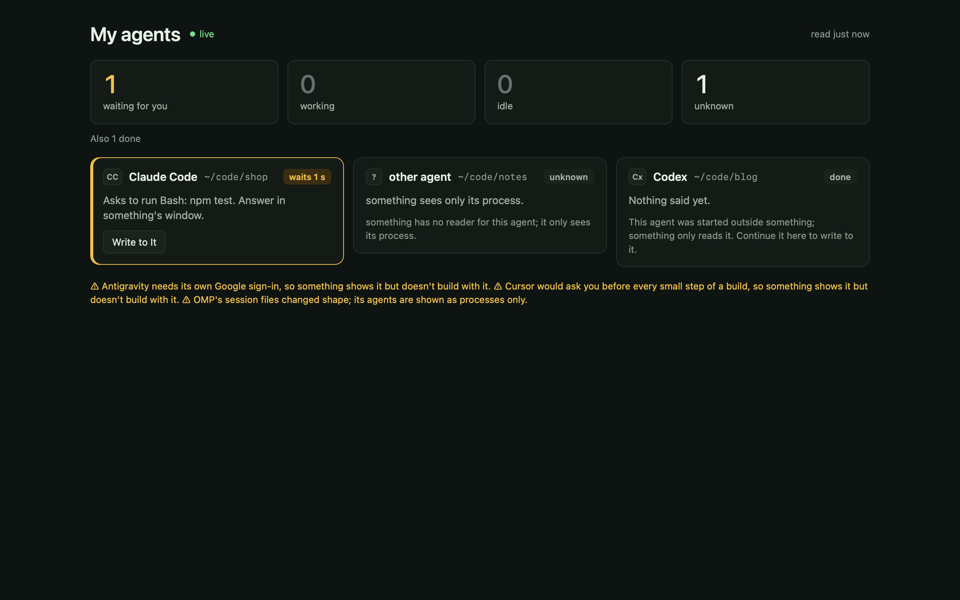
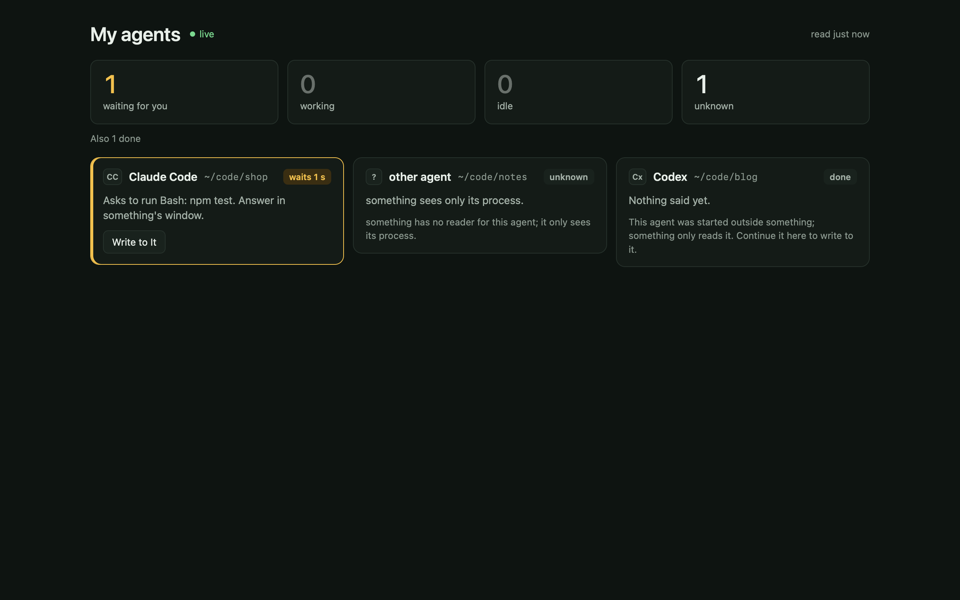
Picture fixes for R4
My agents is a dark control room by day and by night, as the mockup draws it; After This Turn
is filled; its helpers fold behind one line with a chevron; "/" in the footer is a keycap; the
mode chip fits its word; a kind's note shows only while one of its agents is here, quietly. A
tool step that names its tool is not prefixed with it. Project watch keeps its blueprint in both
appearances, and a milestone ticked keeps the day it was done ("done 15 Oct", "open").
Info's lock line says the memory needs no permission. The request panel says "Started by
<space>" instead of the agent's quoted name. The stage takes the mockup's thread for pacman,
portfolio launched by the space, and X4.3's atelier folder, milestones and agent.

Changed region(s): [[0.0938, 0.45, 0.9062, 0.51]]

diff --git a/share/templates/agents.html b/share/templates/agents.html
@@ -20,20 +20,14 @@
 </script>
 <style>
   [hidden] { display: none !important; }
-  /* A calm control room: deep green-black by night, pale sage by day; amber for what waits, green for what works.
-     --soft stays readable (4.5:1) on the cards; --edge only draws lines. */
+  /* A calm control room, deep green-black by day and by night alike, as a control room stays lit the same: amber for
+     what waits, green for what works. --soft stays readable (4.5:1) on the cards; --edge only draws lines. */
   :root {
-    color-scheme: light dark;
-    --room: #eef2ef; --card: #fafcfa; --sunk: #e6ece8; --edge: #d3ddd6; --ink: #142019; --soft: #56645b; --faint: #6b786f;
-    --work: #1f7a43; --work-bg: #dcefe2; --wait: #9a5b00; --wait-bg: #fbecc9; --amber: #f2c14e; --amber-ink: #241a00;
-    --fail: #b3261e; --you: #e1e9e4;
+    color-scheme: dark;
+    --room: #0e1411; --card: #141b17; --sunk: #19221d; --edge: #26312b; --ink: #e8efe9; --soft: #a3b0a7; --faint: #8b988f;
+    --work: #7bd88f; --work-bg: #1d3a26; --wait: #f2c14e; --wait-bg: #3a2e12; --amber: #f2c14e; --amber-ink: #241a00;
+    --fail: #ff7b72; --you: #1f2b25; --deep: #213a2b;
     font: 14px/1.45 -apple-system, system-ui, sans-serif;
-  }
-  @media (prefers-color-scheme: dark) {
-    :root {
-      --room: #0e1411; --card: #141b17; --sunk: #19221d; --edge: #26312b; --ink: #e8efe9; --soft: #a3b0a7; --faint: #8b988f;
-      --work: #7bd88f; --work-bg: #1d3a26; --wait: #f2c14e; --wait-bg: #3a2e12; --fail: #ff7b72; --you: #1f2b25;
-    }
   }
   * { box-sizing: border-box; }
   body { margin: 0; min-height: 100vh; background: var(--room); color: var(--ink); }
@@ -83,12 +77,13 @@
   .btn { border: 1px solid var(--edge); background: var(--sunk); border-radius: 7px; padding: 5px 11px; cursor: pointer; font-size: 13px; }
   .btn:hover { border-color: var(--faint); }
   .btn.go { background: var(--amber); border-color: var(--amber); color: var(--amber-ink); font-weight: 600; }
+  .btn.next { background: var(--deep); border-color: var(--deep); font-weight: 600; }
 
   /* The open card's chips: its model and effort, its mode, each as the agent reported it, for its next turn. */
   .chips { margin-left: auto; display: flex; gap: 6px; align-items: center; }
   .chip { display: inline-flex; align-items: center; gap: 2px; border: 1px solid var(--edge); border-radius: 7px; background: var(--sunk);
           font-size: 12.5px; padding: 0 4px; height: 26px; }
-  .chip select { appearance: none; border: 0; background: none; padding: 0 3px; cursor: pointer; font-size: 12.5px; }
+  .chip select { appearance: none; border: 0; background: none; padding: 0 3px; cursor: pointer; font-size: 12.5px; field-sizing: content; }
   .chip select + select { color: var(--soft); }
   .chip::after { content: "⌄"; color: var(--faint); padding: 0 3px 4px 0; }
   .chip.fixed::after { content: none; }
@@ -102,10 +97,15 @@
   .thread .it .tile { height: 18px; min-width: 18px; font-size: 9px; }
   .thread .step { color: var(--faint); font-size: 12.5px; padding-left: 8px; }
   .thread .step::before { content: "○"; margin-right: 8px; }
-  .helpers { display: flex; gap: 8px; align-items: center; border: 1px solid var(--edge); border-radius: 8px; padding: 8px 12px;
-             font-size: 12.5px; color: var(--soft); }
+  /* Its helpers: one line, a › to unfold each sub-agent and where it stands. */
+  .helpers { border: 1px solid var(--edge); border-radius: 8px; font-size: 12.5px; color: var(--soft); }
+  .helpers summary { display: flex; gap: 8px; align-items: center; padding: 8px 12px; cursor: pointer; list-style: none; }
+  .helpers summary::-webkit-details-marker { display: none; }
+  .helpers summary::before { content: "⌥"; color: var(--work); }
+  .helpers summary::after { content: "›"; margin-left: auto; color: var(--faint); font-size: 15px; transition: transform 140ms ease-out; }
+  .helpers[open] summary::after { transform: rotate(90deg); }
   .helpers b { color: var(--ink); font-weight: 600; }
-  .helpers::before { content: "⌥"; color: var(--work); }
+  .helpers ul { list-style: none; margin: 0; padding: 0 12px 8px 30px; display: flex; flex-direction: column; gap: 3px; }
   .held { margin: 0; color: var(--soft); font-size: 12.5px; }
 
   /* The reply: "/" opens its commands, the field, then Send Now and After This Turn. */
@@ -132,7 +132,7 @@
 
   .empty { grid-column: 1 / -1; border: 1px dashed var(--edge); border-radius: 12px; padding: 28px; text-align: center; color: var(--soft); }
   #problem { border: 1px solid var(--fail); color: var(--fail); border-radius: 8px; padding: 8px 12px; margin: 0; }
-  #notes { color: var(--wait); font-size: 12.5px; margin: 0; }
+  #notes { color: var(--faint); font-size: 12px; margin: 0; }
   @media (max-width: 700px) { main { padding: 18px; } .thread .you { max-width: 90%; } .keys .from { margin-left: 0; } }
   @media (prefers-reduced-motion: reduce) { .agent.fresh { animation: none; } }
 </style>
@@ -205,13 +205,13 @@
     node.innerHTML = `<div class="head"><span class="tile"></span><span class="name"></span><span class="folder mono"></span>
         <span class="pill"></span><span class="chips" hidden></span></div>
       <p class="line"></p><p class="fault" hidden></p>
-      <ol class="thread" hidden></ol><div class="helpers" hidden></div><p class="held" hidden></p>
+      <ol class="thread" hidden></ol><details class="helpers" hidden><summary></summary><ul></ul></details><p class="held" hidden></p>
       <div class="acts"><button type="button" class="btn write">Write to It</button></div>
       <div class="talk" hidden><p class="hint" hidden></p>
         <form class="reply"><ul class="cmds" role="listbox" hidden></ul>
           <button type="button" class="slash" aria-label="Its commands">/</button>
           <textarea rows="1" aria-label="Message" role="combobox" aria-autocomplete="list" aria-expanded="false"></textarea>
-          <button type="submit" class="btn go" value="now">Send Now</button><button type="submit" class="btn" value="next">After This Turn</button>
+          <button type="submit" class="btn go" value="now">Send Now</button><button type="submit" class="btn next" value="next">After This Turn</button>
         </form>
         <div class="keys"><span class="now"><kbd>↩</kbd>now, it reads it at its next step</span><span class="after"><kbd>⌥↩</kbd>after this turn</span>
           <span class="own"></span><span class="from">through something · this page may write to your agents</span></div>
@@ -340,22 +340,25 @@
     // Opened: its latest lines, its helpers as its stream marks them, and what waits for after this turn.
     q(".thread").hidden = !opened;
     if (opened) q(".thread").replaceChildren(...lines(state, agent, 6).map((i) => {
-      if (i.kind === "tool") return make("li", "step", (i.tool && !i.text.startsWith(i.tool.name) ? i.tool.name + " " : "") + i.text.split("\n")[0]);
+      const named = i.tool && i.text.toLowerCase().includes(i.tool.name.toLowerCase());   // "Started the workflow…" names its tool
+      if (i.kind === "tool") return make("li", "step", (i.tool && !named ? i.tool.name + " " : "") + i.text.split("\n")[0]);
       if (i.author === "person") return make("li", "you", i.text);
       const said = make("li", "it");
       said.append(make("span", "tile", TILES[agent.kind] || "?"), make("span", "", i.text));
       return said;
     }));
-    const helpers = agent.subagents || [], busy = helpers.filter((h) => h.status === "running");
+    const helpers = agent.subagents || [], busy = helpers.filter((h) => h.status === "running"), ended = helpers.length - busy.length;
     q(".helpers").hidden = !opened || !helpers.length;
-    if (opened && helpers.length) q(".helpers").replaceChildren(make("b", "", "Its helpers"), busy.length
-      ? `${busy.map((h) => h.name).join(" · ")} · ${busy.length} sub-agent${busy.length === 1 ? "" : "s"} at work`
-      : `${helpers.length} finished, the last: ${helpers[helpers.length - 1].name}`);
+    if (opened && helpers.length) {
+      q(".helpers summary").replaceChildren(make("b", "", "Its helpers"), [busy.length && `${busy.length} sub-agent${busy.length === 1 ? "" : "s"} at work`,
+        ended && `${ended} finished`].filter(Boolean).join(" · "));
+      q(".helpers ul").replaceChildren(...helpers.map((h) => make("li", "", `${h.name} · ${h.status === "running" ? "at work" : h.status}`)));
+    }
     shown(".held", opened && agent.queue.length ? `${agent.queue.length} held for after this turn: “${agent.queue[0].text}”` : "");
     q(".acts").hidden = opened || !may;
     q(".talk").hidden = !opened;
     q(".slash").hidden = !(agent.commands && agent.commands.length);
-    q(".own").textContent = agent.commands && agent.commands.length ? `/ ${label(agent.kind)}'s own commands` : "";
+    q(".own").replaceChildren(...(agent.commands && agent.commands.length ? [make("kbd", "", "/"), `${label(agent.kind)}'s own commands`] : []));
     // Send Now steers into a running turn; to an agent not at work there is one send, for its next turn.
     const steer = agent.can.steer && status === "working";
     q("[value=now]").hidden = !steer;
@@ -403,8 +406,8 @@
         ? "No agent on this Mac right now. Start one in a terminal, and it appears here."
         : "This space may not see your agents. Allow “See your agents” in the space's Info."));
     }
-    // A program whose files changed shape says so once, under the cards.
-    const notes = Object.values(state.kinds).map((k) => k.note).filter(Boolean);
+    // A program whose files changed shape says so once, quietly under the cards, while one of its agents is here.
+    const notes = Object.entries(state.kinds).filter(([kind, k]) => k.note && state.agents.some((a) => a.kind === kind)).map(([, k]) => k.note);
     $("notes").hidden = !notes.length;
     $("notes").textContent = notes.map((n) => "⚠ " + n).join("  ");
     painted = true;

diff --git a/Tests/somethingTests/Acceptance/AcceptanceTrust.swift b/Tests/somethingTests/Acceptance/AcceptanceTrust.swift
@@ -5,7 +5,7 @@
 // labels, and writes <id>.png and <id>-dark.png when SOMETHING_GALLERY is set. An unbuilt one stays disabled until
 // its slice lands (AcceptanceTests reads these traits).
 import AppKit
-import SomethingAgents
+@testable import SomethingAgents
 import SomethingCore
 import Testing
 import WebKit
@@ -212,7 +212,7 @@ struct AcceptanceTrust {
         panel.place(beside: shell.window, screen: Self.desk)
         #expect(panel.title == "Claude Code wants to run a command" && box.accessibilityLabel() == "Always for this space" && box.state == .off)
         #expect(PanelsTests.texts(panel.contentView) == ["something", "·  Permission", "", "Claude Code wants to run a command",
-                                                         "My agents · “shop” · just now", "It will run one command in the My agents space.",
+                                                         "Started by My agents · just now", "It will run one command in the My agents space.",
                                                          "Runs in", "~/code/shop", "The exact command · 1 line", "npm test",
                                                          "Keeps exactly this command, for Claude Code, in ~/code/shop. You can revoke it in the space’s Info.",
                                                          "No space can see or click this window."])
@@ -236,8 +236,15 @@ struct AcceptanceTrust {
         defer { stage.remove() }
         let atelier = stage.home.places.home.appendingPathComponent("code/atelier").path
         let rule = Rule(kind: "claude", command: "git log --oneline -20", folder: atelier, at: "2026-10-21T09:00:00Z")
+        try Self.atelier(stage)
         let (shell, library, info, view) = try await Self.info(stage, "project", folder: "code/atelier", rules: [rule])
         defer { view.close() }
+        var world = Stage.world
+        world.agents.append(Self.slides.agent)
+        world.threads.append(Self.slides.thread)
+        view.engine.update(outside: world)
+        view.push()
+        await Picture.settle(view)
         #expect(info.level == .run && info.rules == [rule])
         let read = await AccessibilityTests.walk(shell.inspector.viewController.view).words
         for words in ["Always for this space", "Claude Code: git log --oneline -20, in ~/code/atelier", "Revoke git log --oneline -20"] {
@@ -253,6 +260,37 @@ struct AcceptanceTrust {
         info.revoke(rule)
         let left = try Grants(stage.home.places.grants).read().spaces["project"]?.rules
         #expect(info.rules.isEmpty && left == nil)
+    }
+
+    /// Project watch as Use Template leaves it for ~/code/atelier (the mockup's agents live under /Users/example, so
+    /// it follows that folder), with the mockup's milestones: three done on 15, 18 and 21 October, two open.
+    static func atelier(_ stage: Stage) throws {
+        let file = stage.home.places.spaces.appendingPathComponent("project.html")
+        let page = try String(contentsOf: file, encoding: .utf8)
+            .replacingOccurrences(of: #""folders": ["~/code/your-project"]"#, with: #""folders": ["/Users/example/code/atelier"]"#)
+            .replacingOccurrences(of: #""folder": "~/code/your-project""#, with: #""folder": "~/code/atelier""#)
+        try page.write(to: file, atomically: true, encoding: .utf8)
+        let done = [("Outline the talk", "2026-10-15"), ("Pick the colour model", "2026-10-18"), ("Draft the introduction page", "2026-10-21")]
+        let open = ["Rehearse with the slides", "Send the final"]
+        let milestones: [[String: Any]] = done.enumerated().map { ["id": "m\($0)", "text": $1.0, "done": true, "at": $1.1 + "T10:00:00Z"] }
+            + open.enumerated().map { ["id": "o\($0)", "text": $1, "done": false] }
+        try Memory(folder: stage.home.places.data, space: "project").set("milestones", milestones)
+    }
+
+    /// Claude Code at work in the atelier, writing the slides (invented), for Project watch to follow.
+    static var slides: (agent: Agent, thread: AgentThread) {
+        let at = { (minutes: Double) in iso8601.string(from: Stage.local.addingTimeInterval(-60 * minutes)) }
+        var agent = Agent(id: "claude-atelier", kind: "claude", origin: "elsewhere")
+        (agent.folder, agent.state, agent.alive, agent.evidence, agent.name) = ("/Users/example/code/atelier", "working", true, "log", "atelier")
+        (agent.thread, agent.started, agent.updated, agent.waiting) = ("atelier", at(30), at(1), "none")
+        agent.because = ["send": "This agent was started outside something; something only reads it."]
+        let thread = AgentThread(id: "atelier", agent: agent.id, title: nil, started: at(30), turns: [
+            Turn(id: "atelier-0", state: "working", started: at(30), ended: nil, items: [
+                Item(id: "atelier-0-0", kind: "message", author: "person", text: "Write the slides for Friday's talk", at: at(30), tool: nil),
+                Item(id: "atelier-0-1", kind: "tool", author: "agent", text: "Writing the slides", at: at(1), tool: Tool(name: "Write", status: "running")),
+            ]),
+        ])
+        return (agent, thread)
     }
 
     /// A command of fourteen lines, expanded by ↕: the panel 560 wide shows all of it, still across the window's
@@ -320,7 +358,7 @@ struct AcceptanceTrust {
         arrows[1].performClick(nil)
         #expect(panel.request?.id == "r2" && panel.position == "2 of 3" && !panel.armed)
         #expect(panel.title == "Claude Code wants to run a command")
-        #expect(PanelsTests.texts(panel.contentView).contains("Project watch · “watcher” · asked 12 min ago"))
+        #expect(PanelsTests.texts(panel.contentView).contains("Started by Project watch · asked 12 min ago"))
         arrows[0].performClick(nil)
         #expect(panel.request?.id == "r1" && panel.position == "1 of 3")
         time += 1

diff --git a/Tests/somethingTests/Acceptance/AcceptanceShell.swift b/Tests/somethingTests/Acceptance/AcceptanceShell.swift
@@ -522,14 +522,14 @@ struct AcceptanceShell {
         #expect(counted["first"] as? String == "claude-pacman" && counted["open"] as? Bool == true, "\(counted)")
         #expect(counted["chips"] as? [String] == ["Sonnet 5.5", "Medium", "Ask"] && counted["labels"] as? [String] == ["Model", "Effort", "Mode"], "\(counted)")
         #expect((counted["amp"] as? String)?.hasPrefix("waits ") == true && counted["ampWrite"] as? Bool == true, "\(counted)")
-        #expect(counted["thread"] as? [String] == ["you", "step", "it", "step"], "\(counted)")
+        #expect(counted["thread"] as? [String] == ["you", "it", "you", "step"], "\(counted)")
         #expect(counted["buttons"] as? [String] == ["Its commands", "Send Now", "After This Turn"], "\(counted)")
         let read = """
             const menu = card.querySelector(".cmds"), hint = card.querySelector(".hint");
             return { hidden: menu.hidden, label: menu.getAttribute("aria-label"), role: menu.getAttribute("role"), box: box.value,
                      names: [...menu.querySelectorAll("li b")].map((b) => b.textContent), roles: [...menu.children].map((li) => li.getAttribute("role")),
                      chosen: [...menu.children].findIndex((li) => li.getAttribute("aria-selected") === "true"), place: box.placeholder,
-                     helpers: card.querySelector(".helpers").textContent, expanded: box.getAttribute("aria-expanded"),
+                     helpers: card.querySelector(".helpers summary").textContent, expanded: box.getAttribute("aria-expanded"),
                      active: box.getAttribute("aria-activedescendant"), chosenID: menu.querySelector("[aria-selected=true]")?.id ?? null,
                      controls: box.getAttribute("aria-controls") === menu.id, hint: hint.hidden ? null : hint.textContent };
             """
@@ -540,7 +540,7 @@ struct AcceptanceShell {
         #expect(seen["names"] as? [String] == ["/goal", "/plan", "/review", "/agents", "/compact"] && seen["chosen"] as? Int == 0, "\(seen)")
         #expect((seen["roles"] as? [String])?.allSatisfy { $0 == "option" } == true)
         #expect(seen["place"] as? String == "Write to Claude Code…")
-        #expect(seen["helpers"] as? String == "Its helpersWriter: chase for Blinky · Writer: chase for Pinky · 2 sub-agents at work", "\(seen)")
+        #expect(seen["helpers"] as? String == "Its helpers2 sub-agents at work · 1 finished", "\(seen)")
         seen = try await run(#"box.value = "/re"; box.dispatchEvent(new Event("input"));"# + read)
         #expect(seen["names"] as? [String] == ["/review"])
         seen = try await run(type + key("ArrowDown") + read)
@@ -587,6 +587,10 @@ struct AcceptanceShell {
                                         ("compact", "Shortens the conversation, keeps the gist")].map { Option(value: $0, label: $1) }
         world.agents[index].subagents = [Tool(name: "Explore: read the ghost files", status: "done"), Tool(name: "Writer: chase for Blinky", status: "running"),
                                          Tool(name: "Writer: chase for Pinky", status: "running")]
+        // Claude Code in portfolio, launched by the space too: Write to It, as the mockup draws it at Run.
+        if let other = world.agents.firstIndex(where: { $0.id == "claude-portfolio" }) {
+            (world.agents[other].origin, world.agents[other].can.send, world.agents[other].because) = ("launched", true, [:])
+        }
         return world
     }
 

diff --git a/share/templates/project.html b/share/templates/project.html
@@ -21,20 +21,14 @@
 </script>
 <style>
   [hidden] { display: none !important; }
-  /* Dark: a blueprint, white lines on Prussian blue. Light: a whiteprint, blue lines on pale paper. */
+  /* A blueprint, white lines on Prussian blue, by day and by night: a drawing keeps its paper. */
   :root {
-    color-scheme: light dark;
-    --paper: #eef3f7; --line: #0e2a47; --soft: rgba(14, 42, 71, .62); --faint: rgba(14, 42, 71, .3);
-    --grid: rgba(0, 119, 182, .10); --grid-major: rgba(0, 119, 182, .16); --accent: #0077b6; --wait: #a86f00; --fail: #c0392b;
+    color-scheme: dark;
+    --paper: #0e2a47; --line: #e7f3ff; --soft: rgba(231, 243, 255, .7); --faint: rgba(231, 243, 255, .3);
+    --grid: rgba(95, 211, 255, .12); --grid-major: rgba(95, 211, 255, .2); --accent: #5fd3ff; --wait: #ffd166; --fail: #ff7a6b;
     --head: "Avenir Next Condensed", "Avenir Next", "Helvetica Neue", sans-serif;
     --mono: Menlo, ui-monospace, monospace;
     font: 13px/1.45 "Avenir Next", "Helvetica Neue", sans-serif;
-  }
-  @media (prefers-color-scheme: dark) {
-    :root {
-      --paper: #0e2a47; --line: #e7f3ff; --soft: rgba(231, 243, 255, .7); --faint: rgba(231, 243, 255, .3);
-      --grid: rgba(95, 211, 255, .12); --grid-major: rgba(95, 211, 255, .2); --accent: #5fd3ff; --wait: #ffd166; --fail: #ff7a6b;
-    }
   }
   * { box-sizing: border-box; }
   body {
@@ -75,7 +69,8 @@
   .milestones li { display: flex; align-items: center; gap: 8px; }
   .milestones label { flex: 1; display: flex; gap: 8px; cursor: pointer; }
   .milestones input { accent-color: var(--accent); }
-  .milestones .done span { color: var(--soft); text-decoration: line-through; text-decoration-color: var(--accent); }
+  .milestones .done label span { color: var(--soft); text-decoration: line-through; text-decoration-color: var(--accent); }
+  .milestones .when { font: 11px var(--mono); color: var(--soft); white-space: nowrap; }
   .milestones .x { background: none; border: 0; color: var(--soft); padding: 0 4px; font-size: 14px; }
   .milestones .x:hover { color: var(--fail); background: none; }
   form.add { display: flex; gap: 6px; }
@@ -248,12 +243,15 @@
     $("milestones").replaceChildren(...list.map((m) => {
       const item = make("li", m.done ? "done" : "");
       const box = Object.assign(make("input"), { type: "checkbox", checked: m.done });
-      box.onchange = () => keep(list.map((x) => x.id === m.id ? { ...x, done: box.checked } : x));
+      // Ticked, a milestone keeps the day it was done; an older one without it says only "done".
+      box.onchange = () => keep(list.map((x) => x.id === m.id ? { ...x, done: box.checked, at: box.checked ? new Date(now()).toISOString() : null } : x));
       const line = make("label");
       line.append(box, make("span", "", m.text));
+      const day = m.done && m.at ? new Date(m.at) : null;
+      const when = make("span", "when", !m.done ? "open" : day ? `done ${day.getDate()} ${day.toLocaleString("en", { month: "short" })}` : "done");
       const remove = Object.assign(make("button", "x", "×"), { title: "Remove" });
       remove.onclick = () => keep(list.filter((x) => x.id !== m.id));
-      item.append(line, remove);
+      item.append(line, when, remove);
       return item;
     }));
     if (!list.length) $("milestones").append(make("li", "why", "Name the next step of this project."));

diff --git a/Tests/somethingTests/Acceptance/Stage.swift b/Tests/somethingTests/Acceptance/Stage.swift
@@ -109,11 +109,12 @@ final class Stage {
             thread("shop", "amp", [("done", 52, 40, [("person", "Fix the total on the cart page", nil, 52), ("agent", "Read cart.js", "Read", 50),
                                                        ("agent", "The total adds the delivery twice.", nil, 41)]),
                                     ("working", 39, nil, [("person", "Go on, but run the tests first", nil, 39), ("agent", "npm test", "Bash", 38)])]),
-            thread("pacman", "claude", [("working", 12, nil, [("person", "Bring the chase mode back", nil, 12), ("agent", "Edit ghosts.js", "Edit", 20),
-                                                               ("agent", "The chase mode is back. The ghosts no longer walk through walls.", nil, 17),
-                                                               ("agent", "Edit ghosts.js", "Edit", 1)])]),
+            thread("pacman", "claude", [("working", 12, nil, [("person", "Bring the chase mode back, and keep the ghosts out of the walls.", nil, 12),
+                                                               ("agent", "The chase mode is back. The ghosts no longer walk through walls.", nil, 6),
+                                                               ("person", "Now give each ghost its own way of chasing.", nil, 4),
+                                                               ("agent", "Started the workflow “Chase mode” · step 2 of 4", "Workflow", 1)])]),
             thread("portfolio", "claude", [("working", 25, nil, [("person", "Resize the images for the projects page", nil, 25),
-                                                                  ("agent", "Resizing images, 14 of 28", "Bash", 2)])]),
+                                                                  ("agent", "Resizing images for the projects page, 14 of 28", "Bash", 2)])]),
             thread("notes", "pi", [("done", 200, 190, [("person", "Summarise the reading list", nil, 200), ("agent", "Done: six books, two articles.", nil, 190)])]),
         ]
         return (agents, threads)

diff --git a/Sources/something/Words.swift b/Sources/something/Words.swift
@@ -122,12 +122,12 @@ enum Words {
         count > 1 ? "\(index + 1) of \(count)" : nil
     }
 
-    /// The line under a request's title, as the mockup's "My agents · its assistant · asked 3 min ago": the space's
-    /// title, who asks (the space's assistant, or the agent by its name), "Quick Change" for its temporary session, and
-    /// the age; what is not known is left out.
+    /// The line under a request's title, as the mockup's "My agents · its assistant · asked 3 min ago" or "Started by
+    /// My agents · just now" (the agent's own name only when no space is known), "Quick Change" for its temporary
+    /// session, and the age; what is not known is left out.
     static func who(space: String?, assistant: Bool, name: String?, age: String?, quick: Bool = false) -> String {
-        let asker = assistant ? (space == nil ? "your assistant" : "its assistant") : name.map { "“\($0)”" }
-        return [space, asker, quick ? "Quick Change" : nil, age].compactMap { $0 }.joined(separator: " · ")
+        let source = assistant ? [space, space == nil ? "your assistant" : "its assistant"] : [space.map { "Started by " + $0 } ?? name.map { "“\($0)”" }]
+        return (source + [quick ? "Quick Change" : nil, age]).compactMap { $0 }.joined(separator: " · ")
     }
 
     /// The quit alert's title and its last line, given `requests` waiting and `working` agents at work: the four

diff --git a/Tests/somethingTests/WordsTests.swift b/Tests/somethingTests/WordsTests.swift
@@ -93,7 +93,8 @@ import Testing
 
         #expect(Words.who(space: "My agents", assistant: true, name: nil, age: "asked 3 min ago") == "My agents · its assistant · asked 3 min ago")
         #expect(Words.who(space: nil, assistant: true, name: nil, age: "just now") == "your assistant · just now")
-        #expect(Words.who(space: "Project watch", assistant: false, name: "watcher", age: nil) == "Project watch · “watcher”")
+        #expect(Words.who(space: "Project watch", assistant: false, name: "watcher", age: nil) == "Started by Project watch")
+        #expect(Words.who(space: nil, assistant: false, name: "watcher", age: "just now") == "“watcher” · just now")
         #expect(Words.who(space: nil, assistant: false, name: nil, age: nil) == "")
     }
 

diff --git a/Sources/something/Inspector.swift b/Sources/something/Inspector.swift
@@ -370,7 +370,7 @@ struct InspectorView: View {
             }
             if level == .run || !info.rules.isEmpty { always }
             if level != .none, !info.shown.isEmpty { now }
-            Levels.note("Whatever an agent asks still waits for you: Allow Once or Deny.")
+            Levels.note("Whatever an agent asks still waits for you, in a window of your Mac: Allow Once or Deny. Its memory needs no permission: it stays with the space.")
         } else {
             Text("It can't be shown now, so it shows no agent.").foot()
         }
